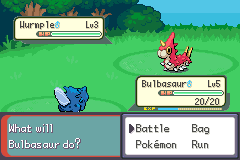
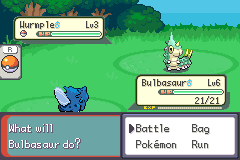
48.4 fixing TM's and Hm's NEW seedote grande evolutions

Changed region(s): [[0.525, 0.1875, 0.9625, 0.7188], [0.0, 0.25, 0.1167, 0.5], [0.0875, 0.1875, 0.1167, 0.25]]

diff --git a/src/data/pokemon/species_info/gen_1_families.h b/src/data/pokemon/species_info/gen_1_families.h
@@ -5607,21 +5607,15 @@ const struct SpeciesInfo gSpeciesInfoGen1[] =
         .frontPicSize = P_GBA_STYLE_SPECIES_GFX ? MON_COORDS_SIZE(48, 56) : MON_COORDS_SIZE(56, 48),
         .frontPicYOffset = P_GBA_STYLE_SPECIES_GFX ? 6 : 16,
         .frontAnimFrames = ANIM_FRAMES(
-            ANIMCMD_FRAME(0, 3),
-            ANIMCMD_FRAME(1, 3),
-            ANIMCMD_FRAME(0, 3),
-            ANIMCMD_FRAME(1, 3),
-            ANIMCMD_FRAME(0, 3),
-            ANIMCMD_FRAME(1, 3),
-            ANIMCMD_FRAME(0, 3),
-            ANIMCMD_FRAME(1, 3),
-            ANIMCMD_FRAME(0, 3),
-            ANIMCMD_FRAME(1, 3),
-            ANIMCMD_FRAME(0, 3),
-            ANIMCMD_FRAME(1, 3),
-            ANIMCMD_FRAME(0, 3),
+            ANIMCMD_FRAME(0, 11),
+            ANIMCMD_FRAME(1, 11),
+            ANIMCMD_FRAME(0, 11),
+            ANIMCMD_FRAME(1, 11),
+            ANIMCMD_FRAME(0, 11),
+            ANIMCMD_FRAME(1, 11),
+            ANIMCMD_FRAME(0, 6),
         ),
-        .frontAnimId = ANIM_V_SQUISH_AND_BOUNCE,
+        .frontAnimId = P_GBA_STYLE_SPECIES_GFX ? ANIM_V_SQUISH_AND_BOUNCE : ANIM_V_JUMPS_H_JUMPS,
         .enemyMonElevation = P_GBA_STYLE_SPECIES_GFX ? 8 : 16,
         .backPic = gMonBackPic_Zubat,
         .backPicSize = P_GBA_STYLE_SPECIES_GFX ? MON_COORDS_SIZE(56, 48) : MON_COORDS_SIZE(56, 56),
@@ -5807,25 +5801,15 @@ const struct SpeciesInfo gSpeciesInfoGen1[] =
         .frontPicSize = P_GBA_STYLE_SPECIES_GFX ? MON_COORDS_SIZE(64, 64) : MON_COORDS_SIZE(64, 56),
         .frontPicYOffset = P_GBA_STYLE_SPECIES_GFX ? 0 : 6,
         .frontAnimFrames = ANIM_FRAMES(
-            ANIMCMD_FRAME(0, 2),
-            ANIMCMD_FRAME(1, 2),
-            ANIMCMD_FRAME(0, 2),
-            ANIMCMD_FRAME(1, 2),
-            ANIMCMD_FRAME(0, 2),
-            ANIMCMD_FRAME(1, 2),
-            ANIMCMD_FRAME(0, 2),
-            ANIMCMD_FRAME(1, 2),
-            ANIMCMD_FRAME(0, 2),
-            ANIMCMD_FRAME(1, 2),
-            ANIMCMD_FRAME(0, 2),
-            ANIMCMD_FRAME(1, 2),
-            ANIMCMD_FRAME(0, 2),
-            ANIMCMD_FRAME(1, 2),
-            ANIMCMD_FRAME(0, 2),
-            ANIMCMD_FRAME(1, 2),
-            ANIMCMD_FRAME(0, 2),
+            ANIMCMD_FRAME(0, 11),
+            ANIMCMD_FRAME(1, 11),
+            ANIMCMD_FRAME(0, 11),
+            ANIMCMD_FRAME(1, 11),
+            ANIMCMD_FRAME(0, 11),
+            ANIMCMD_FRAME(1, 11),
+            ANIMCMD_FRAME(0, 6),
         ),
-        .frontAnimId = ANIM_V_SQUISH_AND_BOUNCE,
+        .frontAnimId = P_GBA_STYLE_SPECIES_GFX ? ANIM_V_SQUISH_AND_BOUNCE : ANIM_V_JUMPS_H_JUMPS,
         .enemyMonElevation = P_GBA_STYLE_SPECIES_GFX ? 6 : 9,
         .backPic = gMonBackPic_Crobat,
         .backPicSize = P_GBA_STYLE_SPECIES_GFX ? MON_COORDS_SIZE(64, 56) : MON_COORDS_SIZE(64, 64),

diff --git a/src/pokemon.c b/src/pokemon.c
@@ -153,6 +153,9 @@ static const enum NationalDexOrder sHoennToNationalOrder[HOENN_DEX_COUNT - 1] =
     HOENN_TO_NATIONAL(NIDORAN_M),
     HOENN_TO_NATIONAL(NIDORINO),
     HOENN_TO_NATIONAL(NIDOKING),
+    HOENN_TO_NATIONAL(RATTATA),
+    HOENN_TO_NATIONAL(RATICATE),
+    HOENN_TO_NATIONAL(BIBAREL),
     HOENN_TO_NATIONAL(LOTAD),
     HOENN_TO_NATIONAL(LOMBRE),
     HOENN_TO_NATIONAL(LUDICOLO),
@@ -224,6 +227,8 @@ static const enum NationalDexOrder sHoennToNationalOrder[HOENN_DEX_COUNT - 1] =
     HOENN_TO_NATIONAL(ARON),
     HOENN_TO_NATIONAL(LAIRON),
     HOENN_TO_NATIONAL(AGGRON),
+    HOENN_TO_NATIONAL(MEOWTH),
+    HOENN_TO_NATIONAL(PERSIAN),
     HOENN_TO_NATIONAL(MANKEY),
     HOENN_TO_NATIONAL(PRIMEAPE),
     HOENN_TO_NATIONAL(ANNIHILAPE),

diff --git a/src/data/moves_info.h b/src/data/moves_info.h
@@ -217,9 +217,9 @@ const struct MoveInfo gMovesInfo[MOVES_COUNT_ALL] =
             "Repeatedly punches the foe\n"
             "2 to 5 times."),
         .effect = EFFECT_MULTI_HIT,
-        .power = 18,
-        .type = TYPE_NORMAL,
-        .accuracy = 85,
+        .power = 20,
+        .type = TYPE_FAIRY,
+        .accuracy = 90,
         .pp = 15,
         .target = MOVE_TARGET_SELECTED,
         .priority = 0,
@@ -3449,7 +3449,7 @@ const struct MoveInfo gMovesInfo[MOVES_COUNT_ALL] =
             "that never miss."),
         .effect = EFFECT_HIT,
         .power = 70,
-        .type = TYPE_NORMAL,
+        .type = TYPE_FAIRY,
         .accuracy = 0,
         .pp = 20,
         .target = MOVE_TARGET_BOTH,

diff --git a/src/data/pokemon/level_up_learnsets/gen_9.h b/src/data/pokemon/level_up_learnsets/gen_9.h
@@ -7665,6 +7665,7 @@ static const struct LevelUpMove sSeedotLevelUpLearnset[] = {
 
 static const struct LevelUpMove sNuzleafLevelUpLearnset[] = {
     LEVEL_UP_MOVE( 0, MOVE_RAZOR_LEAF),
+    LEVEL_UP_MOVE( 1, MOVE_MIND_BLOWN),
     LEVEL_UP_MOVE( 1, MOVE_TACKLE),
     LEVEL_UP_MOVE( 1, MOVE_ABSORB),
     LEVEL_UP_MOVE( 1, MOVE_HARDEN),
@@ -15184,6 +15185,7 @@ static const struct LevelUpMove sVirizionLevelUpLearnset[] = {
     LEVEL_UP_MOVE(31, MOVE_TAKE_DOWN),
     LEVEL_UP_MOVE(32, MOVE_COVET),
     LEVEL_UP_MOVE(33, MOVE_BODY_SLAM),
+    LEVEL_UP_MOVE(35, MOVE_COMET_PUNCH),
     LEVEL_UP_MOVE(39, MOVE_TOXIC_SPIKES),
     LEVEL_UP_MOVE(41, MOVE_DIZZY_PUNCH),
     LEVEL_UP_MOVE(44, MOVE_PLAY_ROUGH),

diff --git a/include/constants/pokedex.h b/include/constants/pokedex.h
@@ -1102,6 +1102,9 @@ enum HoennDexOrder
     HOENN_DEX_NIDORAN_M,
     HOENN_DEX_NIDORINO,
     HOENN_DEX_NIDOKING,
+    HOENN_DEX_RATTATA,
+    HOENN_DEX_RATICATE,
+    HOENN_DEX_BIBAREL, /// NEW EVO FOR RATICATE
     HOENN_DEX_LOTAD,
     HOENN_DEX_LOMBRE,
     HOENN_DEX_LUDICOLO,
@@ -1175,6 +1178,8 @@ enum HoennDexOrder
     HOENN_DEX_ARON,
     HOENN_DEX_LAIRON,
     HOENN_DEX_AGGRON,
+    HOENN_DEX_MEOWTH,
+    HOENN_DEX_PERSIAN,
     HOENN_DEX_MANKEY,
     HOENN_DEX_PRIMEAPE,
     HOENN_DEX_ANNIHILAPE,

diff --git a/src/data/pokemon/species_info/gen_3_families.h b/src/data/pokemon/species_info/gen_3_families.h
@@ -2262,7 +2262,9 @@ const struct SpeciesInfo gSpeciesInfoGen3[] =
         )
         .levelUpLearnset = sNuzleafLevelUpLearnset,
         .teachableLearnset = sNuzleafTeachableLearnset,
-        .evolutions = EVOLUTION({EVO_ITEM, ITEM_LEAF_STONE, SPECIES_SHIFTRY}),
+    #if P_GEN_9_CROSS_EVOS
+        .evolutions = EVOLUTION({EVO_LEVEL, 0, SPECIES_SHIFTRY, CONDITIONS({IF_USED_MOVE_X_TIMES, MOVE_MIND_BLOWN, 1})}),
+    #endif
     },
 
     [SPECIES_SHIFTRY] =
